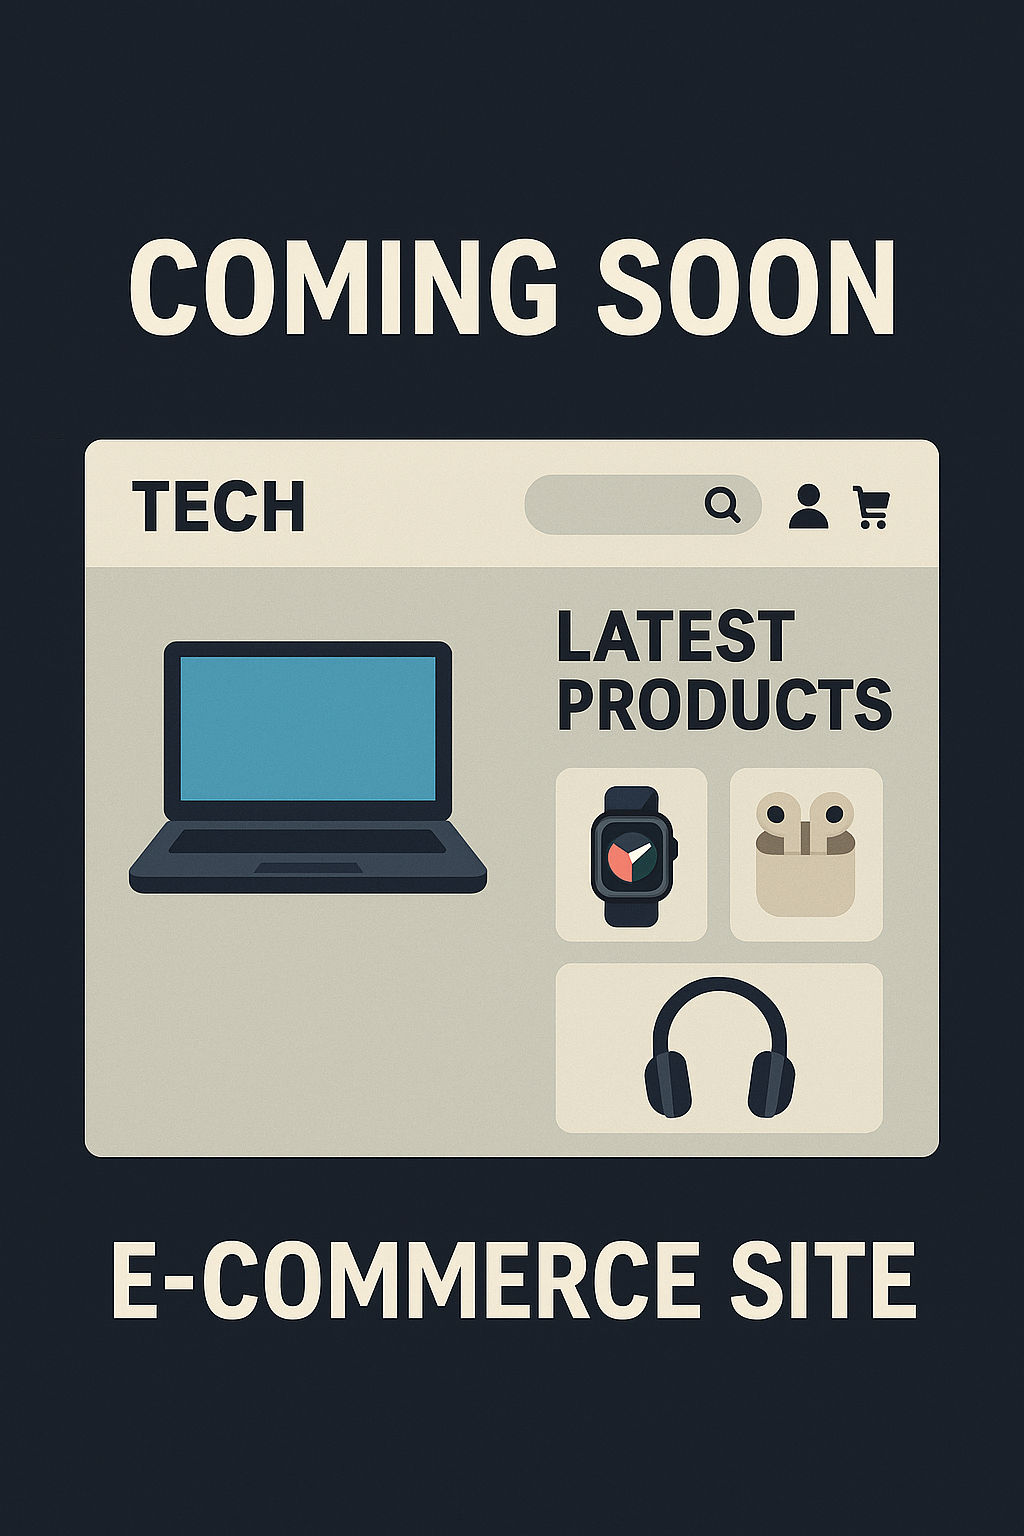
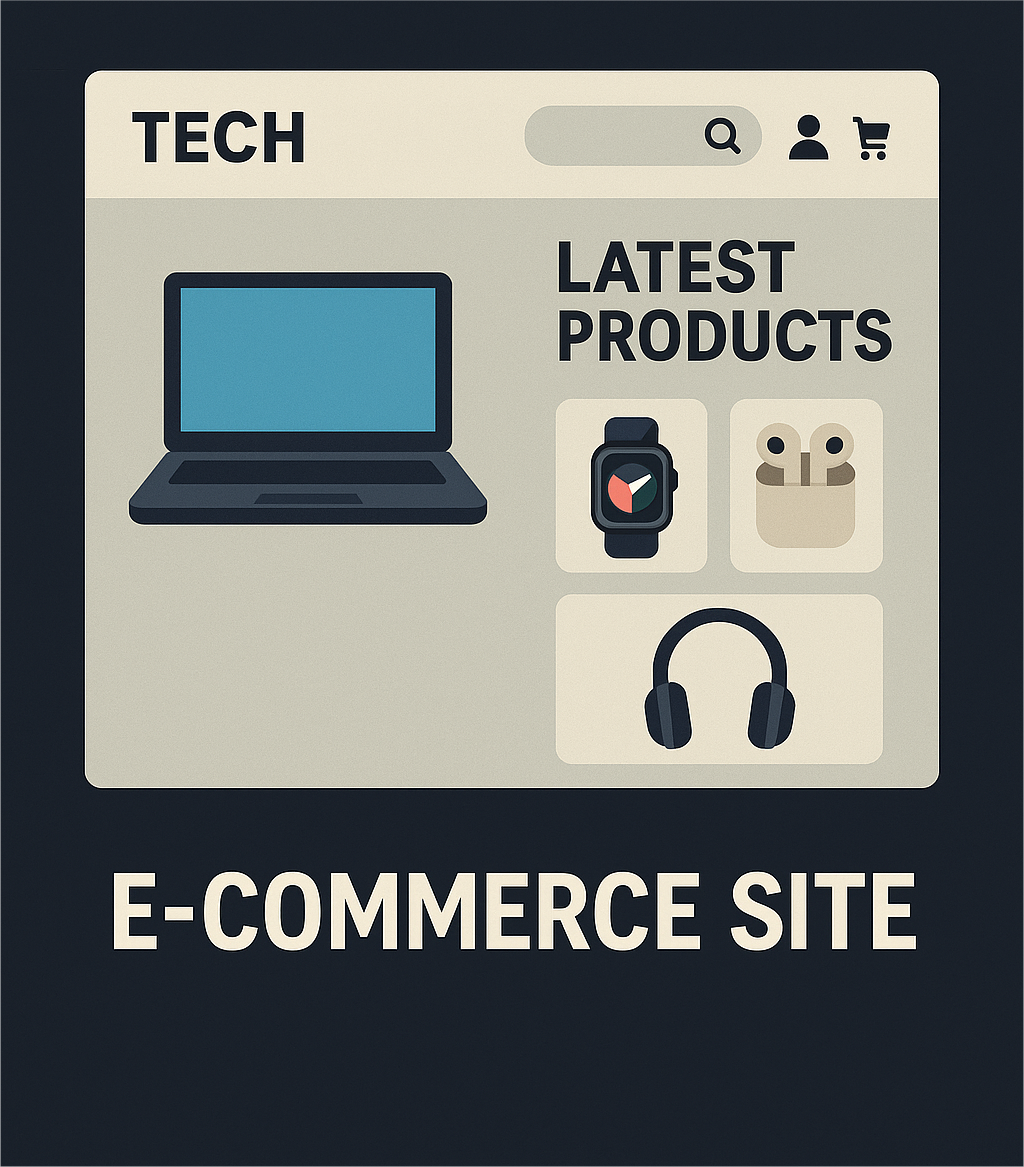
1

diff --git a/index.html b/index.html
@@ -21,8 +21,8 @@
         <div class="studies">
             <div class="image-row">
                 <a href = "computer_repair_site/index.html"> <img src="computer_repair.png"> </a>
-                <a href = "coming_soon.html"> <img src="pacman.png"> </a>
-                <a href = "coming_soon.html"> <img src="tech.png"> </a>
+                <a href = "www.google.com"> <img src="pacman.png"> </a>
+                <a href = "https://ecommercecarlli.netlify.app/"> <img src="tech.png"> </a>
                 <a href = "coming_soon.html"> <img src="temp.png"> </a>
             </div>
         </div>
